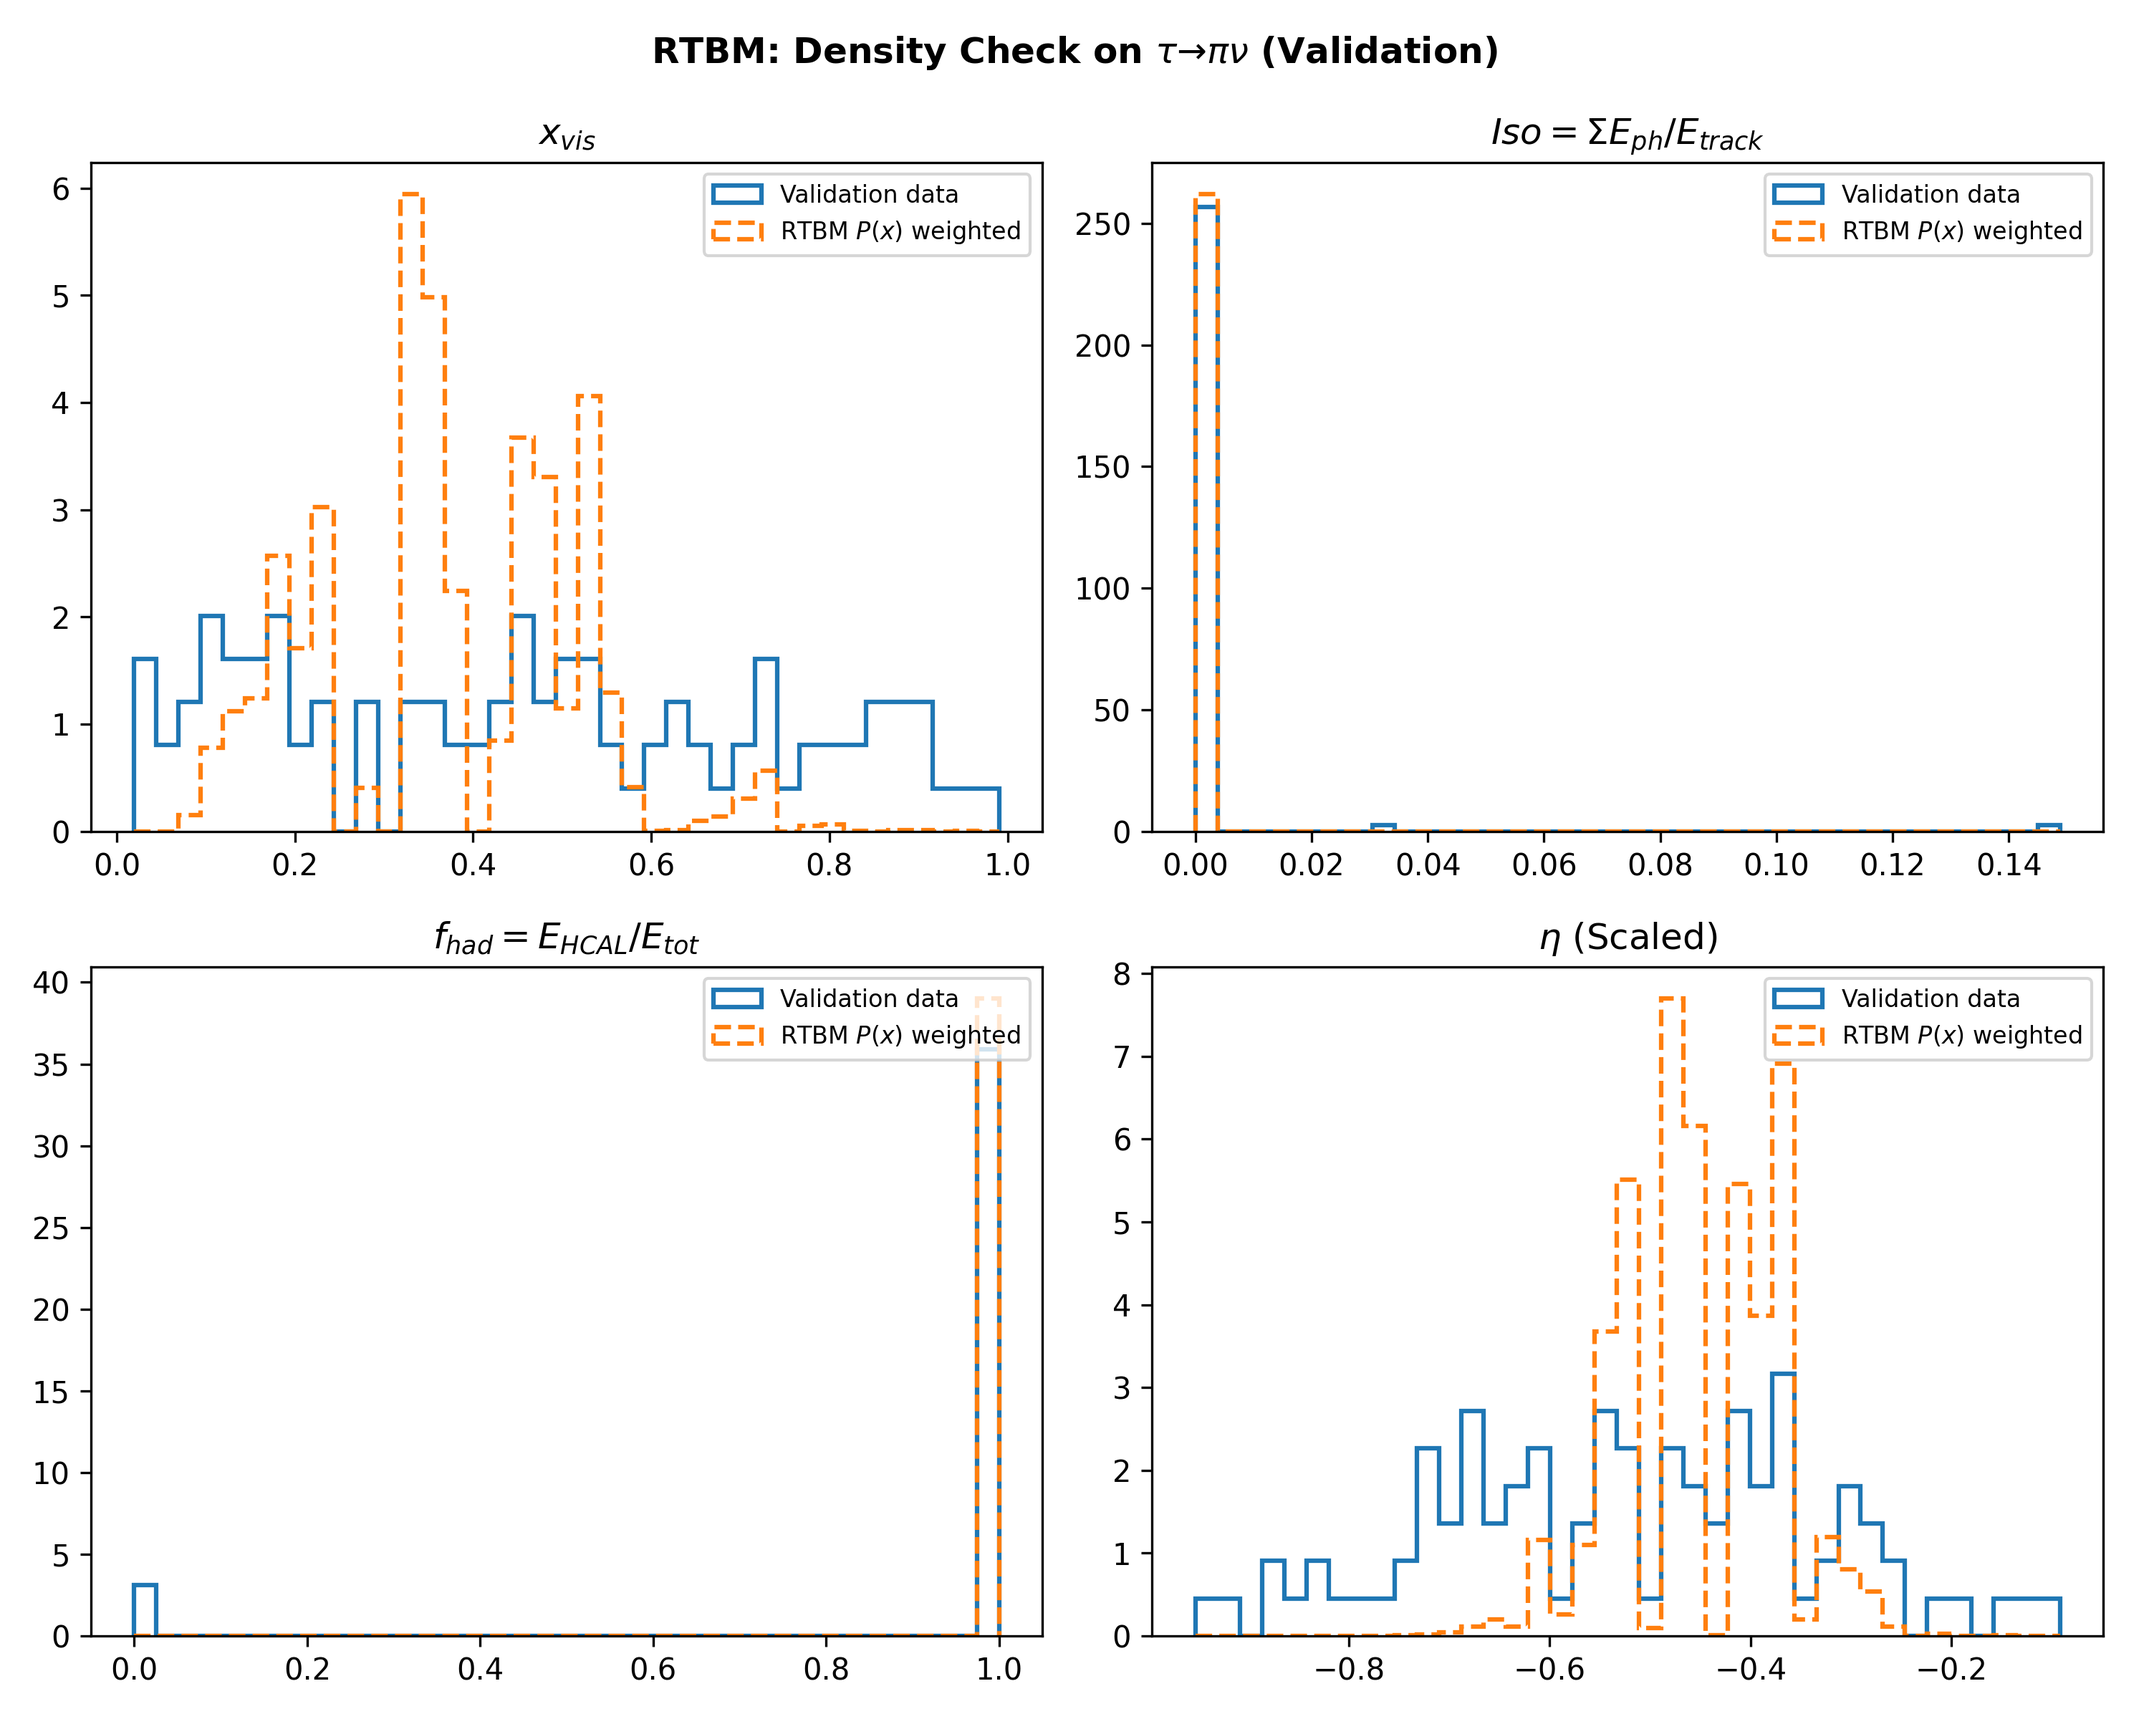
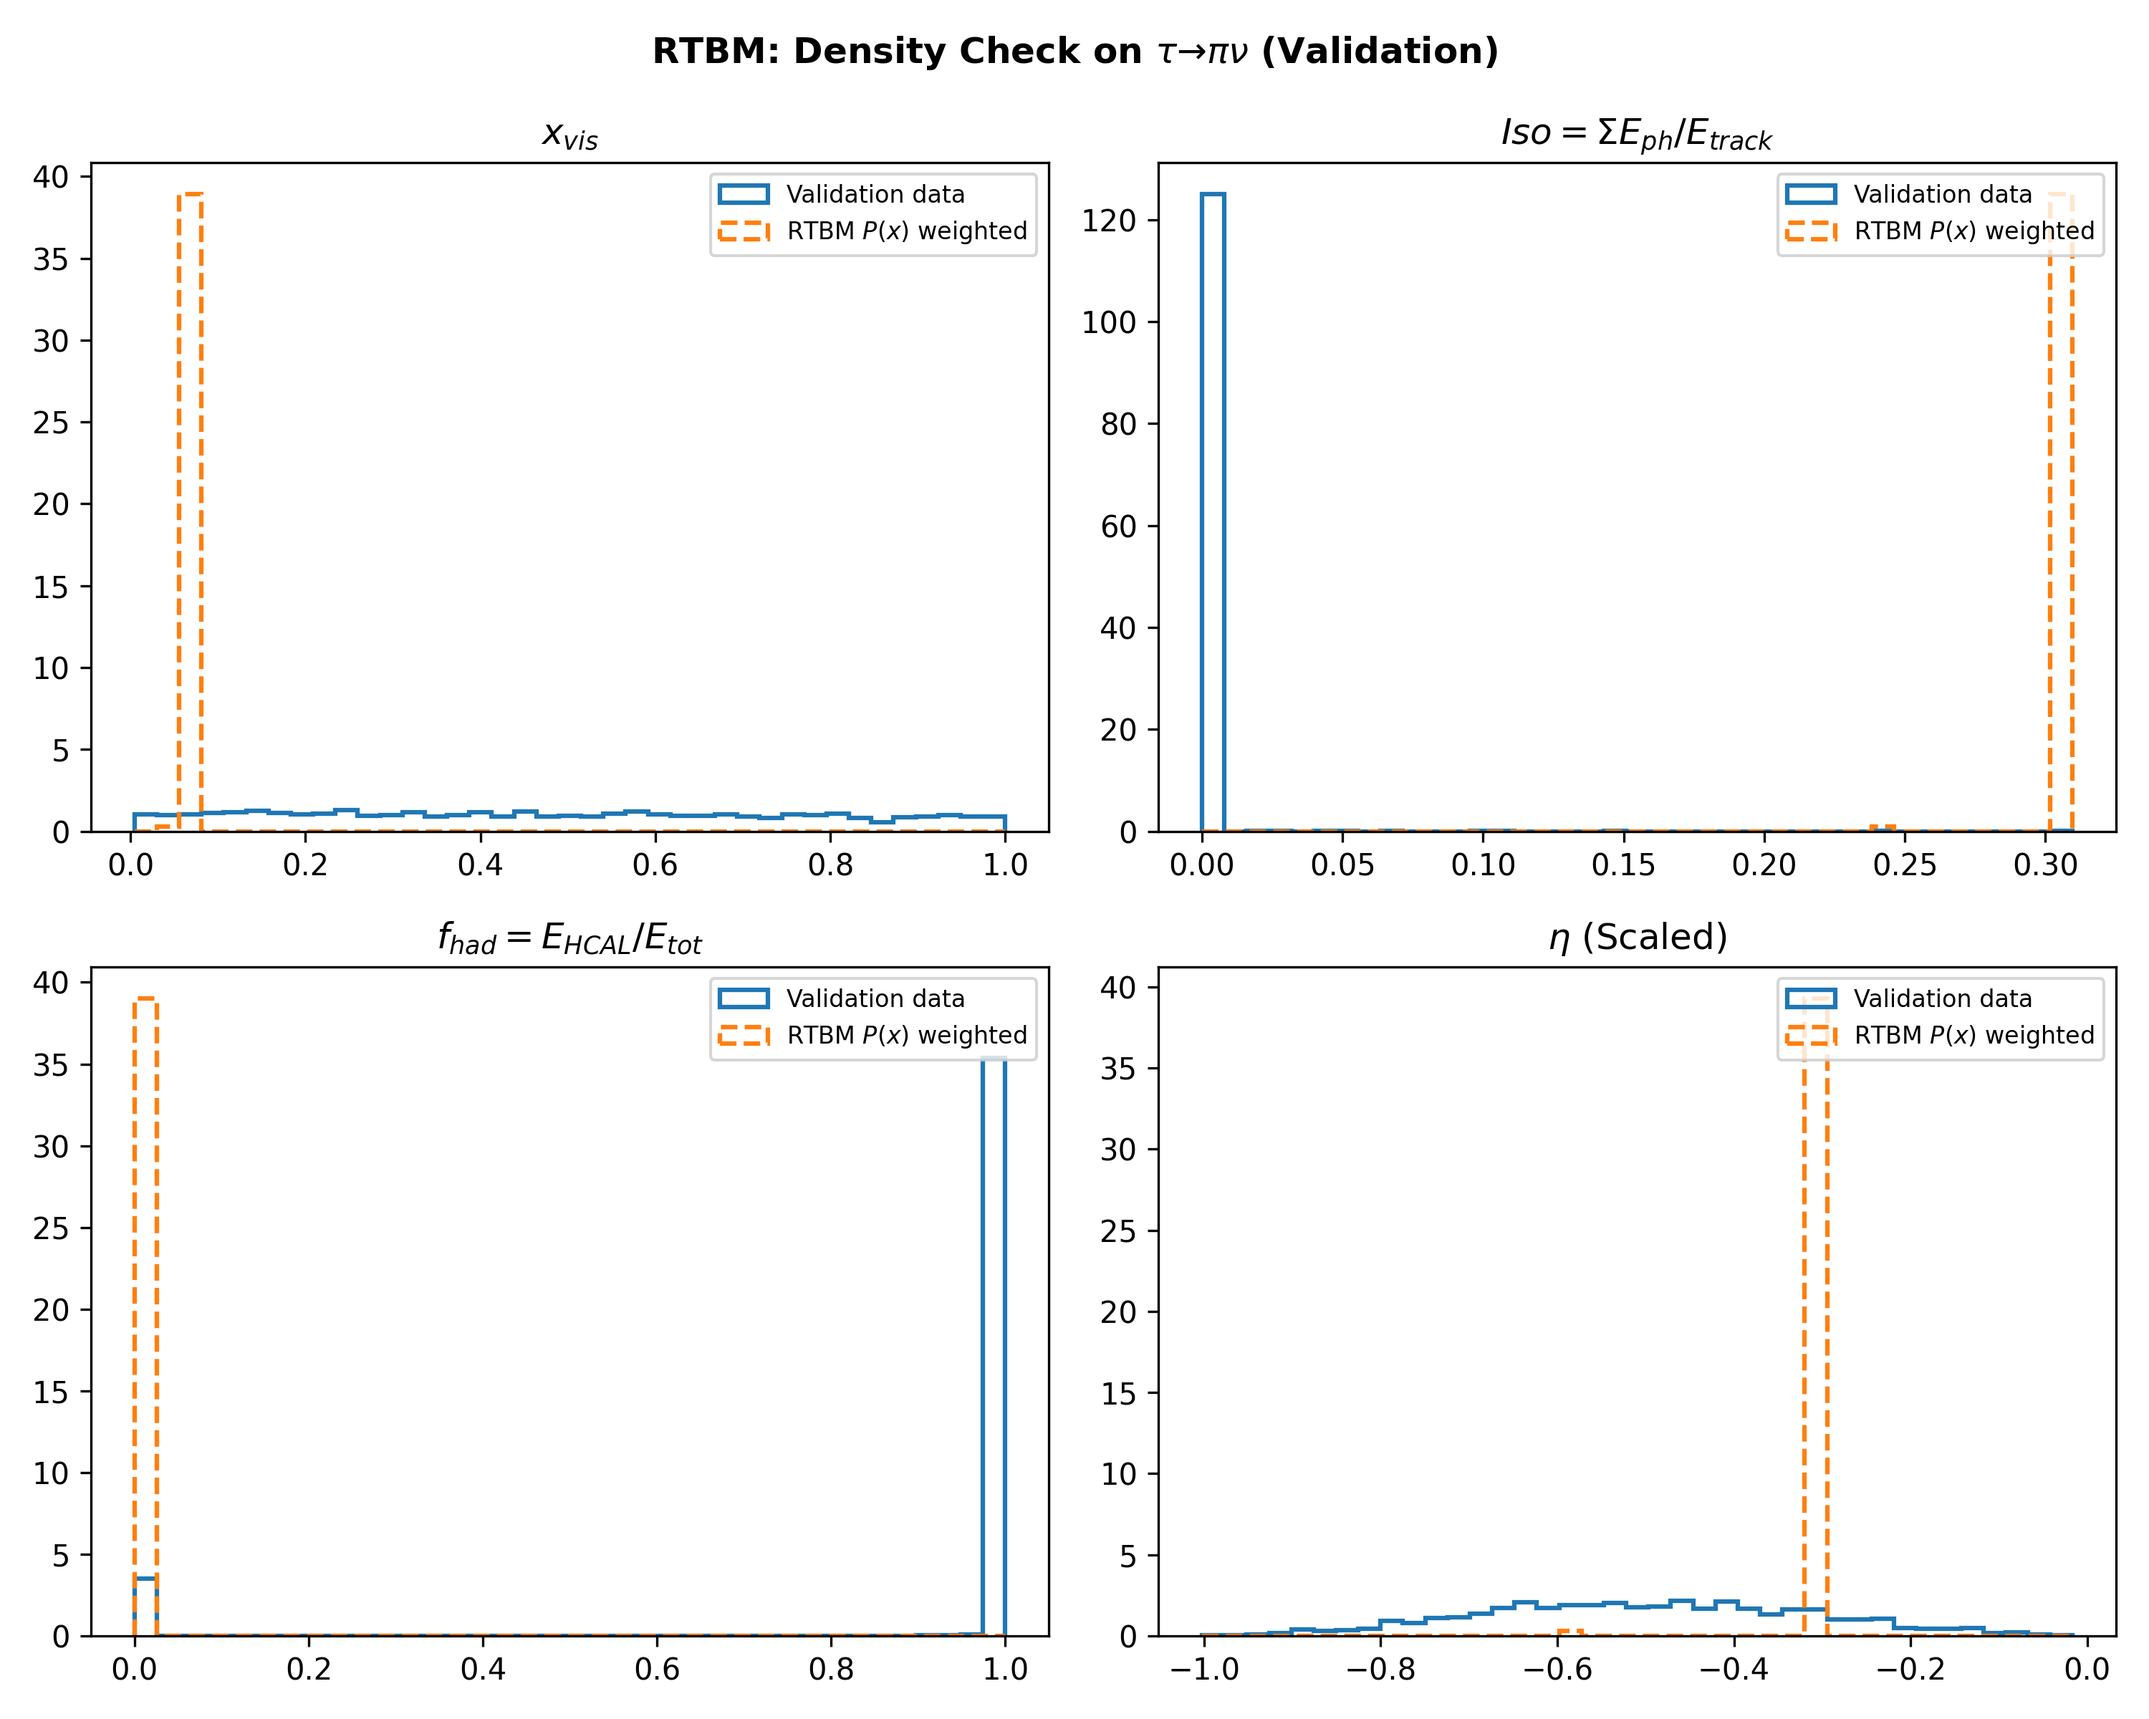
rtbm 1st train failed

diff --git a/rtbm_workspace/README.md b/rtbm_workspace/README.md
@@ -33,7 +33,7 @@ source .venv/bin/activate
 ./.venv/bin/pip install --upgrade pip
 
 # 4. Install legacy packages
-./.venv/bin/pip install "numpy>=1.16.0,<1.20.0" "cython<3.0.0" cma matplotlib wheel scipy
+./.venv/bin/pip install "numpy>=1.16.0,<1.20.0" "cython<3.0.0" cma matplotlib wheel scipy scikit-learn hyperopt
 
 # 5. Compile 
 ./.venv/bin/pip install --no-build-isolation -e ./theta
